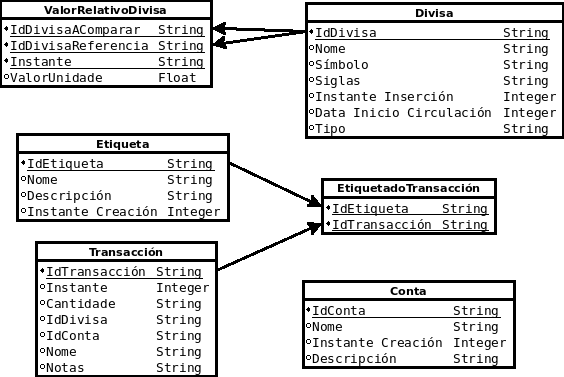
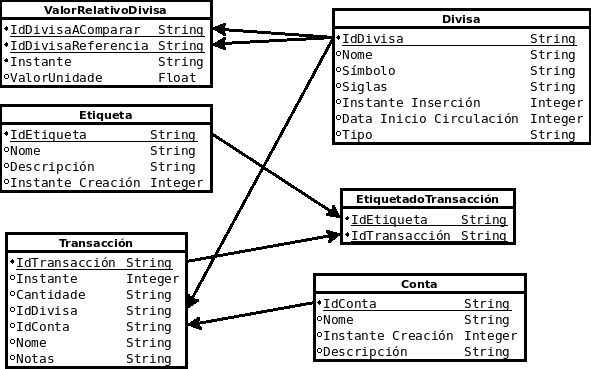
cambios

Changed region(s): [[0.0, 0.2683, 0.9043, 1.0], [0.0, 0.0, 1.0, 0.4173], [0.4823, 0.7453, 0.9344, 0.9837]]

diff --git a/manexador_sqlite.py b/manexador_sqlite.py
@@ -2,7 +2,7 @@
 # -*- coding: utf-8 -*-
 #+ Autor:	Ran#
 #+ Creado:	27/07/2020 08:48:52
-#+ Editado:	27/07/2020 09:18:15
+#+ Editado:	28/07/2020 21:07:36
 
 import sqlite3
 from sqlite3 import Error
@@ -11,18 +11,94 @@ class cBaseDatos:
     def __init__(self, ficheiro_bd):
         self.ficheiro_bd = './media/'+ficheiro_bd+'.bd'
 
+    # creamos a BD e as súas táboas
     def CrearBD(self):
         conn = None
+
         try:
-            conn = sqlite3.connect(self.ficheiro_bd)
+            # establecemos conexión coa DB
+            self.conn = sqlite3.connect(self.ficheiro_bd)
+            # chamamos á función de creación das táboas
+            self._CrearTaboas()
         except Error as e:
             print(e)
         finally:
             if conn:
                 conn.close()
 
+    # función interna de creación das táboas
+    def _CrearTaboas(self):
+        taboa_conta = """ CREATE TABLE "Conta" (
+                            "IdConta"           TEXT UNIQUE,
+                            "Nome"              TEXT,
+                            "Instante Creacion" INTEGER,
+                            "Descripcion"       TEXT,
+                            CONSTRAINT contaPK PRIMARY KEY ("IdConta")
+                        ); """
+                    
+        taboa_divisa = """ CREATE TABLE "Divisa" (
+                            "IdDivisa"                  TEXT UNIQUE,
+                            "Nome"                      TEXT,
+                            "Simbolo"                   TEXT,
+                            "Siglas"                    TEXT,
+                            "Instante Insercion"        INTEGER,
+                            "Data Inicio Circulacion"   INTEGER,
+                            "Tipo"                      String,
+                            CONSTRAINT divisaPK PRIMARY KEY ("IdDivisa")
+                        ); """
+                    
+        taboa_vrd = """ CREATE TABLE "ValorRelativoDivisa" (
+                            "IdDivisaAComparar"     TEXT,
+                            "IdDivisaReferencia"    TEXT,
+                            "Instante"              INTEGER,
+                            "ValorUnidade"          FLOAT,
+                            CONSTRAINT vrdPK PRIMARY KEY ("IdDivisaAComparar", "IdDivisaReferencia"),
+                            CONSTRAINT vrdFK1 FOREIGN KEY ("IdDivisaAComparar") REFERENCES "Divisa" ("IdDivisa"),
+                            CONSTRAINT vrdFK2 FOREIGN KEY ("IdDivisaReferencia") REFERENCES "Divisa" ("IdDivisa")
+                        ); """
+        taboa_etiqueta = """ CREATE TABLE "Etiqueta" (
+                                "IdEtiqueta"        TEXT UNIQUE,
+                                "Nome"              TEXT,
+                                "Descripcion"       TEXT,
+                                "Instante Creacion" TEXT,
+                                CONSTRAINT etiquetaPK PRIMARY KEY ("IdEtiqueta")
+                            ); """
+                    
+        taboa_transaccion = """ CREATE TABLE "Transaccion" (
+                                    "IdTransaccion" TEXT UNIQUE,
+                                    "Instante"      INTEGER,
+                                    "Cantidade"     TEXT,
+                                    "IdDivisa"      TEXT,
+                                    "IdConta"       TEXT,
+                                    "Nome"          TEXT,
+                                    "Notas"         TEXT,
+                                    CONSTRAINT transaccionPK PRIMARY KEY ("IdTransaccion"),
+                                    CONSTRAINT transaccionFK1 FOREIGN KEY ("IdDivisa") REFERENCES "Divisa" ("IdDivisa"),
+                                    CONSTRAINT transacciónFK2 FOREIGN KEY ("IdConta") REFERENCES "Conta" ("IdConta")
+                                ); """
+                    
+        taboa_et = """ CREATE TABLE "EtiquetadoTransaccion" (
+                            "IdEtiqueta"    TEXT,
+                            "IdTransaccion" TEXT,
+                            CONSTRAINT etPK PRIMARY KEY ("IdEtiqueta", "IdTransaccion"),
+                            CONSTRAINT etFK1 FOREIGN KEY ("IdEtiqueta") REFERENCES "Etiqueta" ("IdEtiqueta"),
+                            CONSTRAINT etFK2 FOREIGN KEY ("IdTransaccion") REFERENCES "Transaccion" ("IdTransaccion")
+                        ); """
 
+        # collemos o cursor
+        cursor = self.conn.cursor()
+
+        # facemos os execute dos create table
+        cursor.execute(taboa_conta)
+        cursor.execute(taboa_divisa)
+        cursor.execute(taboa_vrd)
+        cursor.execute(taboa_etiqueta)
+        cursor.execute(taboa_transaccion)
+        cursor.execute(taboa_et)
+
+        # ao rematar facemos commit, funciona sen poñelo
+        self.conn.commit()
+        
 
 vBD = cBaseDatos('proba')
 vBD.CrearBD()
-
